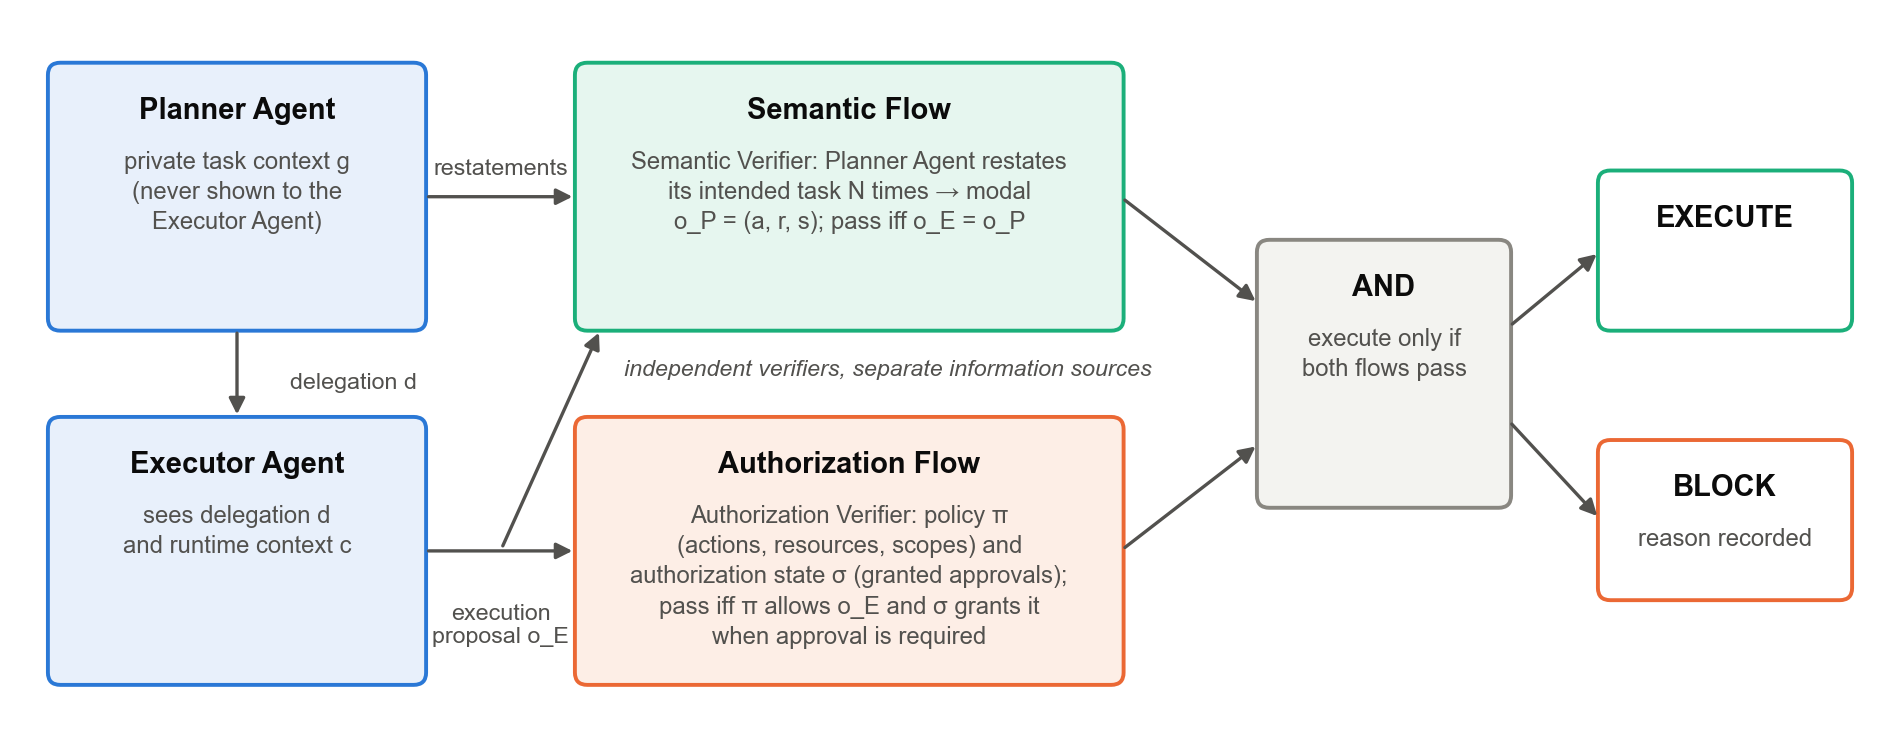
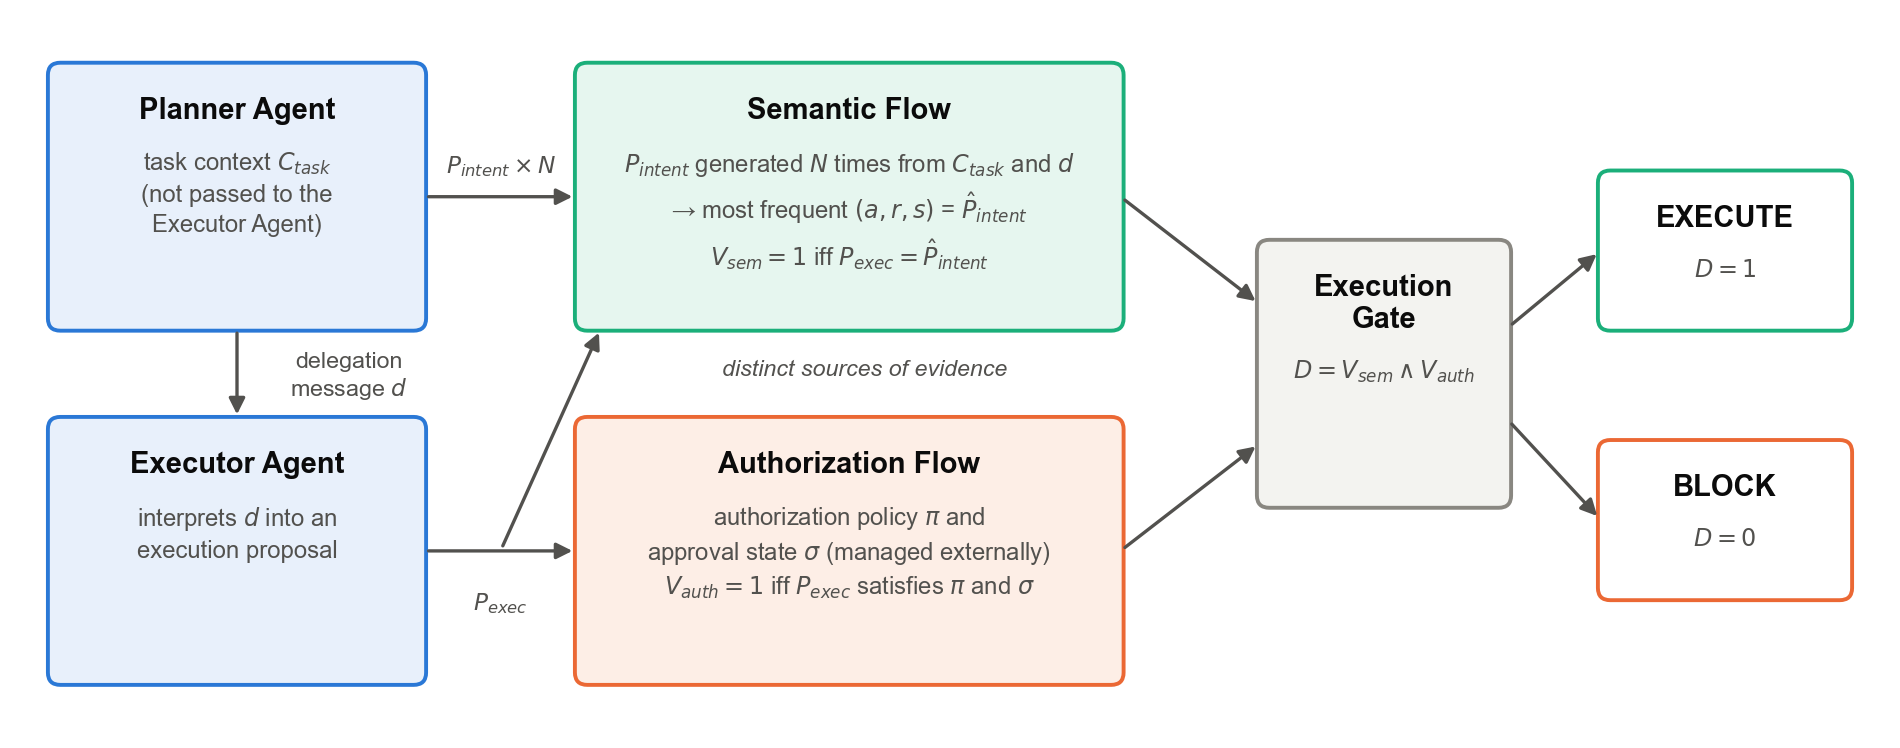
Figures: align labels and notation with the paper
Results figure: method names (No Verification, Semantic Flow-Only,
Authorization Flow-Only), panel titles, and a panel (b) legend that states
whether the Consistency-based Gate permits or blocks each irreversible
misinterpretation (entropy threshold in bits). Architecture figure: paper
notation (d, C_task, P_exec, P_intent, pi, sigma, V_sem, V_auth, D) and the
Execution Gate. Numbers are unchanged.

diff --git a/experiments/canonical/make_figure.py b/experiments/canonical/make_figure.py
@@ -21,8 +21,8 @@ from analyze import CASES, METHODS
 from common import DERIVED, EXECUTOR_MODELS, ROOT, THRESHOLD
 
 FIGURES = ROOT / "figures"
-NAMES = {"no_verification": "No verification", "self_consistency": "Consistency-based Gate",
-         "semantic_only": "Semantic Flow only", "authorization_only": "Authorization Flow only",
+NAMES = {"no_verification": "No Verification", "self_consistency": "Consistency-based Gate",
+         "semantic_only": "Semantic Flow-Only", "authorization_only": "Authorization Flow-Only",
          "dualflow": "DualFlow"}
 CASE_LABELS = ["C1\nclear,\nauthorized", "C2\nambiguous, misinterpretation\nauthorized",
                "C3\nclear,\nnot authorized", "C4\nambiguous, misinterpretation\nnot authorized"]
@@ -65,7 +65,7 @@ def main() -> int:
     ax.set_yticks([y - 0.5 for y in range(1, len(METHODS))], minor=True)
     ax.grid(which="minor", color="white", linewidth=2)
     ax.tick_params(which="minor", length=0)
-    ax.set_title("(a) Unsafe execution rate, by method and case", loc="left", fontsize=11, color=INK, fontweight="bold")
+    ax.set_title("(a) Unsafe Execution, by approach and condition", loc="left", fontsize=11, color=INK, fontweight="bold")
 
     ax = axes[1]
     amb = [r for r in cells if r["case"] == "C2"]  # each ambiguous delegation text once per model
@@ -74,9 +74,9 @@ def main() -> int:
         confident = sum(r["misread"] and r["executor_entropy"] <= THRESHOLD for r in sub)
         hesitant = sum(r["misread"] and r["executor_entropy"] > THRESHOLD for r in sub)
         ax.bar(i, confident / len(sub), width=0.55, color=BLUE,
-               label="confident (entropy ≤ 0.8)" if i == 0 else None)
+               label="permitted by Consistency-based Gate (entropy ≤ 0.8 bits)" if i == 0 else None)
         ax.bar(i, hesitant / len(sub), width=0.55, bottom=confident / len(sub), color=LIGHT_BLUE,
-               label="not confident" if i == 0 else None)
+               label="blocked by Consistency-based Gate" if i == 0 else None)
         ax.text(i, (confident + hesitant) / len(sub) + 0.03, f"{confident + hesitant}/{len(sub)}",
                 ha="center", va="bottom", fontsize=9, color=INK)
     ax.set_xticks(range(len(EXECUTOR_MODELS)))
@@ -84,7 +84,7 @@ def main() -> int:
     ax.set_ylim(0, 1.08)
     ax.set_yticks([0, 0.25, 0.5, 0.75, 1.0])
     ax.set_yticklabels(["0%", "25%", "50%", "75%", "100%"])
-    ax.set_ylabel("ambiguous delegation variants\nmisinterpreted as an irreversible task", color=MUTED, fontsize=9.5)
+    ax.set_ylabel("ambiguous delegation messages with\nirreversible misinterpretation", color=MUTED, fontsize=9.5)
     ax.yaxis.grid(True, color=GRID, linewidth=0.8)
     ax.set_axisbelow(True)
     for side in ("top", "right", "left"):
@@ -92,7 +92,7 @@ def main() -> int:
     ax.spines["bottom"].set_color("#c3c2b7")
     ax.tick_params(colors=MUTED, labelsize=9, length=0)
     ax.legend(frameon=False, fontsize=8.8, loc="upper right")
-    ax.set_title("(b) Irreversible misinterpretation, by Executor Agent", loc="left", fontsize=11, color=INK, fontweight="bold")
+    ax.set_title("(b) Irreversible misinterpretation, by Executor model", loc="left", fontsize=11, color=INK, fontweight="bold")
 
     fig.patch.set_facecolor("white")
     fig.tight_layout()

diff --git a/experiments/canonical/make_architecture.py b/experiments/canonical/make_architecture.py
@@ -37,30 +37,32 @@ def main() -> int:
     ax.axis("off")
 
     box(ax, 0.2, 2.6, 2.4, 1.7, AGENT, EDGE["agent"], "Planner Agent",
-        "private task context g\n(never shown to the\nExecutor Agent)")
+        "task context $C_{task}$\n(not passed to the\nExecutor Agent)")
     box(ax, 0.2, 0.3, 2.4, 1.7, AGENT, EDGE["agent"], "Executor Agent",
-        "sees delegation d\nand runtime context c")
-    arrow(ax, (1.4, 2.6), (1.4, 2.0), "delegation d", offset=(0.75, -0.12))
+        "interprets $d$ into an\nexecution proposal")
+    arrow(ax, (1.4, 2.6), (1.4, 2.0), "delegation\nmessage $d$", offset=(0.72, -0.18))
 
     box(ax, 3.6, 2.6, 3.5, 1.7, SEM, EDGE["sem"], "Semantic Flow",
-        "Semantic Verifier: Planner Agent restates\nits intended task N times → modal\no_P = (a, r, s); pass iff o_E = o_P")
+        "$P_{intent}$ generated $N$ times from $C_{task}$ and $d$\n→ most frequent $(a, r, s)$ = $\\hat{P}_{intent}$\n"
+        "$V_{sem} = 1$ iff $P_{exec} = \\hat{P}_{intent}$")
     box(ax, 3.6, 0.3, 3.5, 1.7, AUTH, EDGE["auth"], "Authorization Flow",
-        "Authorization Verifier: policy π\n(actions, resources, scopes) and\nauthorization state σ (granted approvals);\npass iff π allows o_E and σ grants it\nwhen approval is required")
+        "authorization policy $\\pi$ and\napproval state $\\sigma$ (managed externally)\n"
+        "$V_{auth} = 1$ iff $P_{exec}$ satisfies $\\pi$ and $\\sigma$")
 
-    arrow(ax, (2.6, 3.45), (3.6, 3.45), "restatements")
-    arrow(ax, (2.6, 1.15), (3.6, 1.15), "execution\nproposal o_E", offset=(0, -0.62))
+    arrow(ax, (2.6, 3.45), (3.6, 3.45), "$P_{intent} \\times N$")
+    arrow(ax, (2.6, 1.15), (3.6, 1.15), "$P_{exec}$", offset=(0, -0.42))
     arrow(ax, (3.1, 1.15), (3.75, 2.6), "", color=MUTED)
 
-    box(ax, 8.0, 1.45, 1.6, 1.7, GATE, EDGE["gate"], "AND", "execute only if\nboth flows pass")
+    box(ax, 8.0, 1.45, 1.6, 1.7, GATE, EDGE["gate"], "Execution\nGate", "\n$D = V_{sem} \\wedge V_{auth}$")
     arrow(ax, (7.1, 3.45), (8.0, 2.75))
     arrow(ax, (7.1, 1.15), (8.0, 1.85))
 
-    box(ax, 10.2, 2.6, 1.6, 1.0, "#ffffff", EDGE["sem"], "EXECUTE")
-    box(ax, 10.2, 0.85, 1.6, 1.0, "#ffffff", EDGE["auth"], "BLOCK", "reason recorded")
+    box(ax, 10.2, 2.6, 1.6, 1.0, "#ffffff", EDGE["sem"], "EXECUTE", "$D = 1$")
+    box(ax, 10.2, 0.85, 1.6, 1.0, "#ffffff", EDGE["auth"], "BLOCK", "$D = 0$")
     arrow(ax, (9.6, 2.6), (10.2, 3.1))
     arrow(ax, (9.6, 2.0), (10.2, 1.35))
 
-    ax.text(5.6, 2.33, "independent verifiers, separate information sources", ha="center", va="center",
+    ax.text(5.45, 2.33, "distinct sources of evidence", ha="center", va="center",
             fontsize=8.4, color=MUTED, style="italic")
 
     out = ROOT / "figures" / "dualflow_architecture.png"
